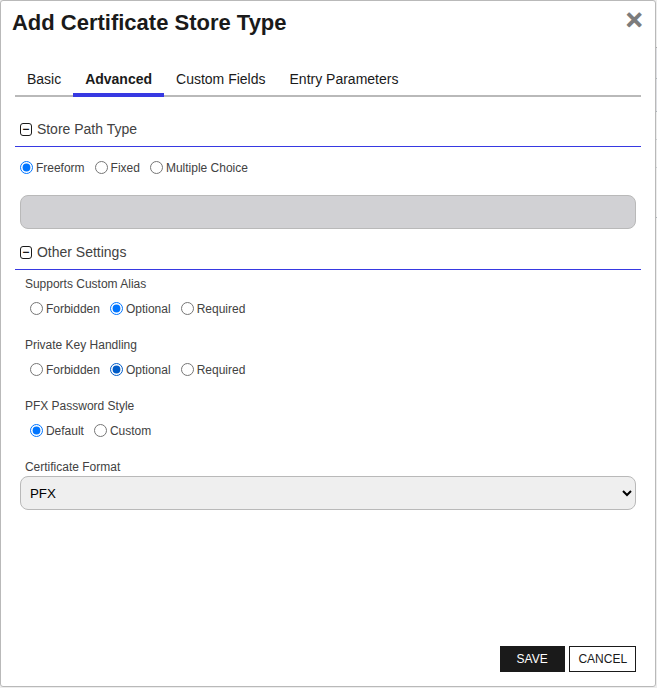
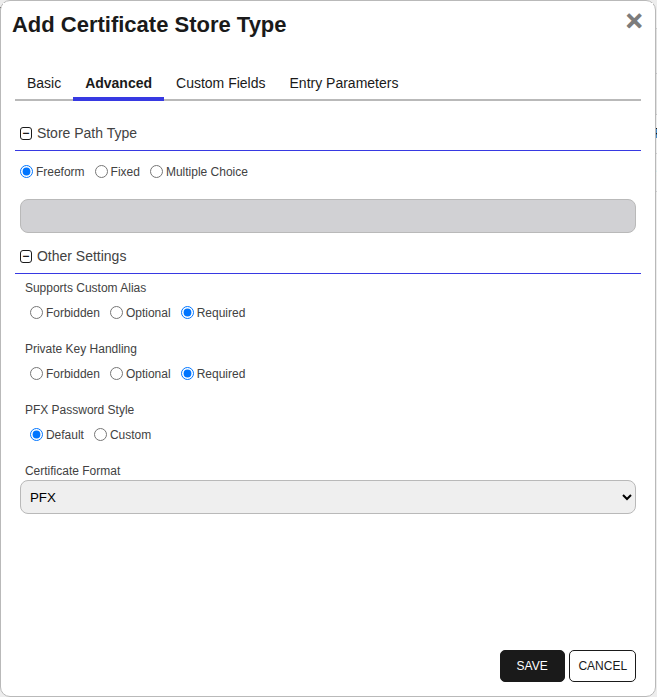
Update generated docs

diff --git a/README.md b/README.md
@@ -160,6 +160,33 @@ the Keyfactor Command Portal
 
    ![HPiLO Custom Fields Tab](docsource/images/HPiLO-custom-fields-store-type-dialog.png)
 
+
+   ###### InventoryAll
+   If true, allows for inventory of additional factory-installed certificates and their chains: `Platform Cert`,`SystemIAK`,`SystemIDevID`, `iLOIDevID/BMCIDevIDPCA`
+
+   ![HPiLO Custom Field - InventoryAll](docsource/images/HPiLO-custom-field-InventoryAll-dialog.png)
+   ![HPiLO Custom Field - InventoryAll](docsource/images/HPiLO-custom-field-InventoryAll-validation-options-dialog.png)
+
+
+
+   ###### IgnoreValidation
+   WARNING: Only enable if testing. Used to disable certificate validation checks at the API endpoint. Should be set to false in any production scenario.
+
+   ![HPiLO Custom Field - IgnoreValidation](docsource/images/HPiLO-custom-field-IgnoreValidation-dialog.png)
+   ![HPiLO Custom Field - IgnoreValidation](docsource/images/HPiLO-custom-field-IgnoreValidation-validation-options-dialog.png)
+
+
+
+   ###### HTTPS Cert Wait Time
+   The HPiLO API requires the user to wait while the HTTPS Cert CSR is generated. HP suggests a time of 60 seconds, as is the default setting, but it can be adjusted.
+
+   ![HPiLO Custom Field - HTTPSCertWaitTime](docsource/images/HPiLO-custom-field-HTTPSCertWaitTime-dialog.png)
+   ![HPiLO Custom Field - HTTPSCertWaitTime](docsource/images/HPiLO-custom-field-HTTPSCertWaitTime-validation-options-dialog.png)
+
+
+
+
+
    ##### Entry Parameters Tab
 
    | Name | Display Name | Description | Type | Default Value | Entry has a private key | Adding an entry | Removing an entry | Reenrolling an entry |
@@ -170,21 +197,29 @@ the Keyfactor Command Portal
 
    ![HPiLO Entry Parameters Tab](docsource/images/HPiLO-entry-parameters-store-type-dialog.png)
 
+
+   ##### IncludeIP
+   Enables the addition of the device IP as a SAN to the CSR during reenrollment. Used particularly during HTTPSCert reenrollment, where it can be set as desired, and should be set to false during all other operations.
+
+   ![HPiLO Entry Parameter - IncludeIP](docsource/images/HPiLO-entry-parameters-store-type-dialog-IncludeIP.png)
+   ![HPiLO Entry Parameter - IncludeIP](docsource/images/HPiLO-entry-parameters-store-type-dialog-IncludeIP-validation-options.png)
+
+
+
    </details>
 
 ## Installation
 
 1. **Download the latest HP iLO Universal Orchestrator extension from GitHub.**
 
-    Navigate to the [HP iLO Universal Orchestrator extension GitHub version page](https://github.com/Keyfactor/hp-ilo-orchestrator/releases/latest). Refer to the compatibility matrix below to determine whether the `net6.0` or `net8.0` asset should be downloaded. Then, click the corresponding asset to download the zip archive.
+    Navigate to the [HP iLO Universal Orchestrator extension GitHub version page](https://github.com/Keyfactor/hp-ilo-orchestrator/releases/latest). Refer to the compatibility matrix below to determine the asset should be downloaded. Then, click the corresponding asset to download the zip archive.
 
    | Universal Orchestrator Version | Latest .NET version installed on the Universal Orchestrator server | `rollForward` condition in `Orchestrator.runtimeconfig.json` | `hp-ilo-orchestrator` .NET version to download |
    | --------- | ----------- | ----------- | ----------- |
    | Older than `11.0.0` | | | `net6.0` |
    | Between `11.0.0` and `11.5.1` (inclusive) | `net6.0` | | `net6.0` |
-   | Between `11.0.0` and `11.5.1` (inclusive) | `net8.0` | `Disable` | `net6.0` |
-   | Between `11.0.0` and `11.5.1` (inclusive) | `net8.0` | `LatestMajor` | `net8.0` |
-   | `11.6` _and_ newer | `net8.0` | | `net8.0` |
+   | Between `11.0.0` and `11.5.1` (inclusive) | `net8.0` | `Disable` | `net6.0` || Between `11.0.0` and `11.5.1` (inclusive) | `net8.0` | `LatestMajor` | `net8.0` |
+   | `11.6` _and_ newer | `net8.0` | | `net8.0` | 
 
     Unzip the archive containing extension assemblies to a known location.
 